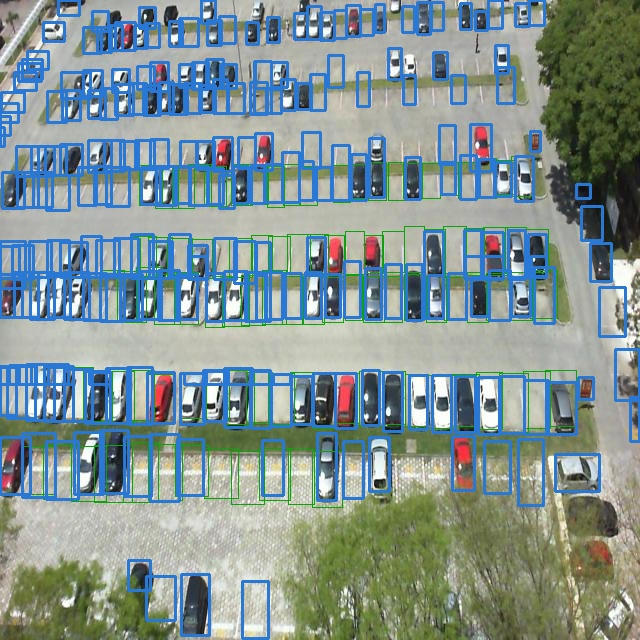
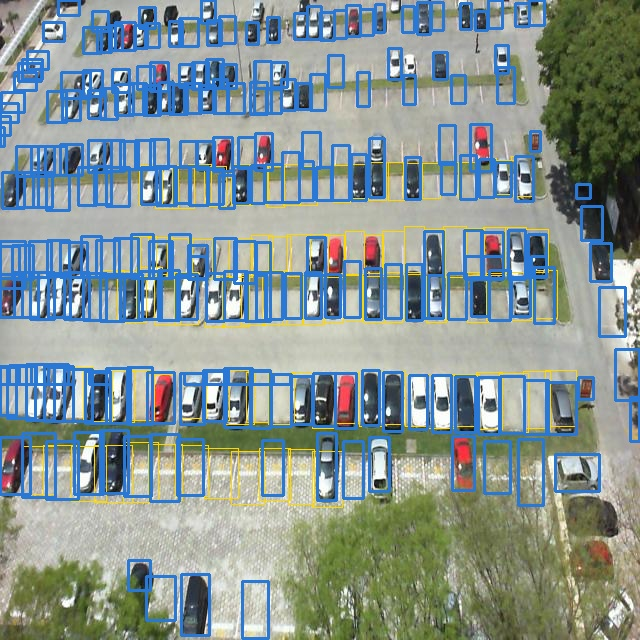
Color change

diff --git a/2.py b/2.py
@@ -97,6 +97,7 @@ SERIES = {"A": "#2a78d6", "B": "#eb6834", "C": "#1baf7a", "D": "#eda100"}
 HEAT_COLORS = ["#f0efec", "#86b6ef", "#eb6834", "#6250d6"]  # free ok, occupied ok, false occupied, missed
 HEAT_NAMES = ["Free (correct)", "Occupied (correct)", "False occupied", "Missed occupied"]
 GOOD_BGR, CRITICAL_BGR, WARNING_BGR, BLUE_BGR = (12, 163, 12), (59, 59, 208), (25, 178, 250), (214, 120, 42)
+MAP_BGR = (0, 215, 255)  # annotated space map in the discovery figure (yellow, so it is not read as "free")
 
 plt.rcParams.update({"font.family": ["Segoe UI", "DejaVu Sans"], "axes.titlesize": 11,
                      "axes.labelcolor": INK_2, "text.color": INK})
@@ -983,7 +984,7 @@ def main():
                               100 * hit.sum() / max(len(found), 1)])
             img = imread(res["img_paths"][len(res["img_paths"]) // 2])
             for p in gt_polys:
-                cv2.polylines(img, [p], True, GOOD_BGR, 1)
+                cv2.polylines(img, [p], True, MAP_BGR, 1)
             for b in found:
                 cv2.rectangle(img, (int(b[0]), int(b[1])), (int(b[2]), int(b[3])), BLUE_BGR, 2)
             imwrite(os.path.join(OUTPUT_ROOT, f"{res['camera']}_{res['condition']}", "space_discovery.jpg"), img)
